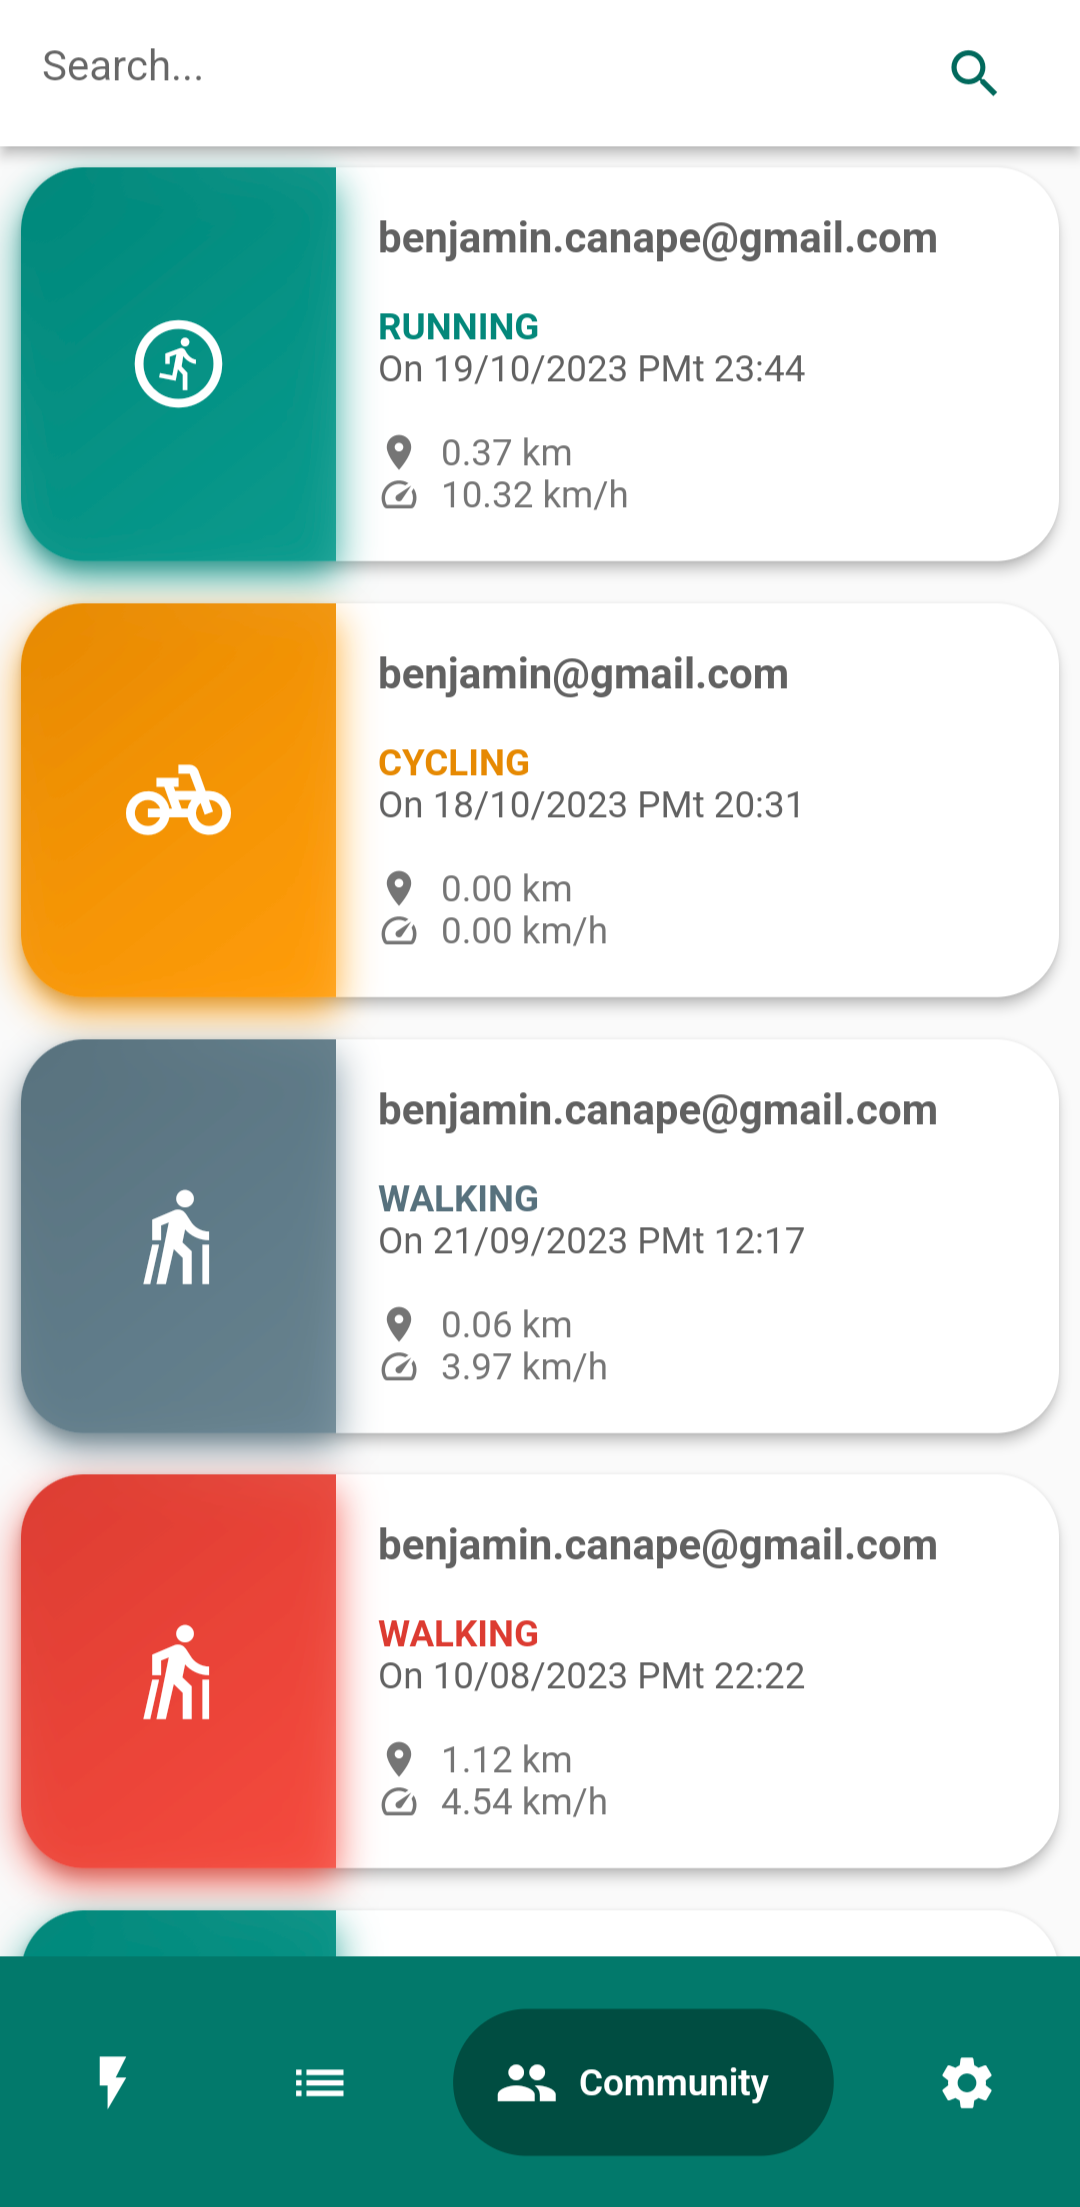
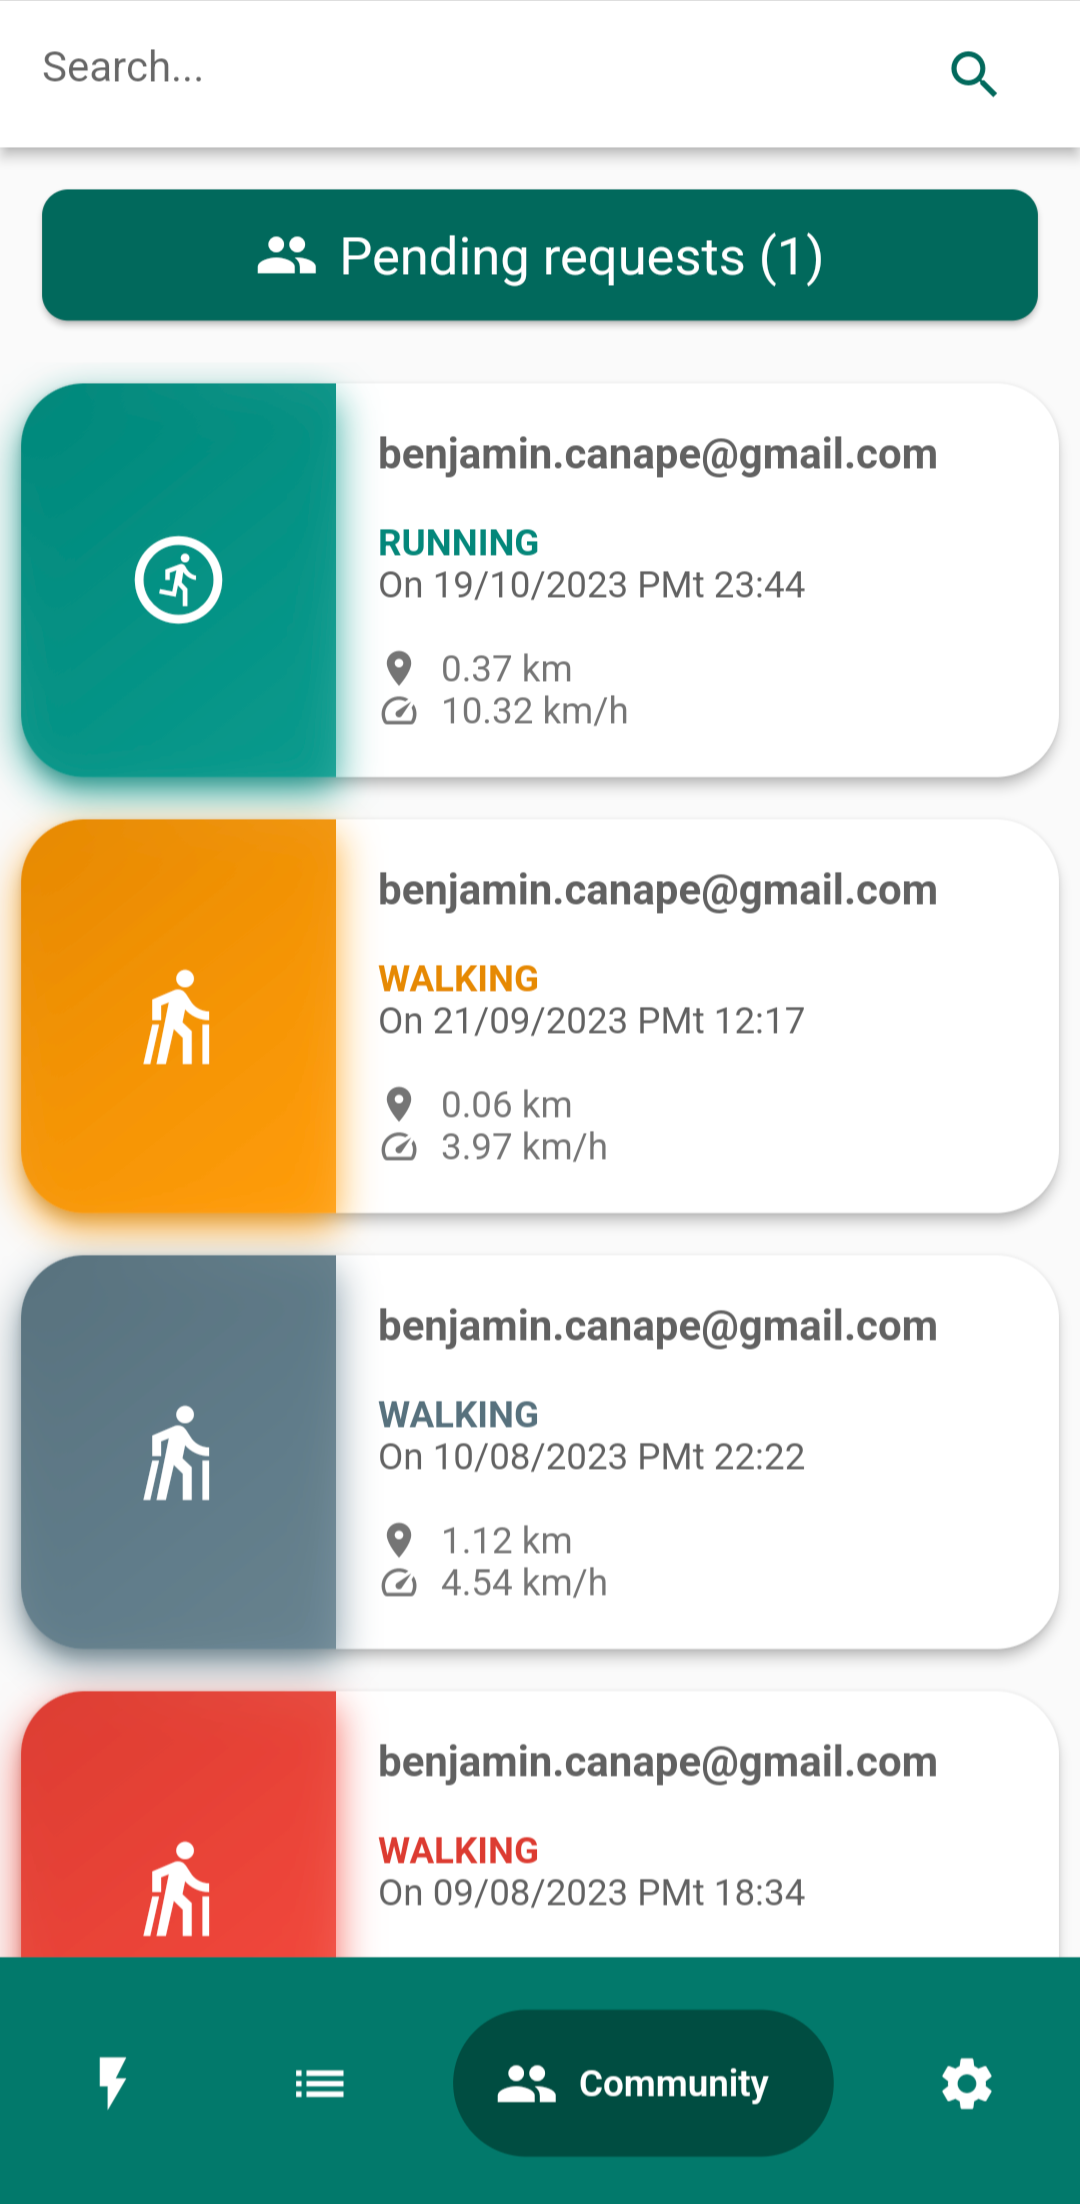
add screenshots

diff --git a/README.md b/README.md
@@ -37,7 +37,7 @@ flutter run
 
 ### Community
 
-<img src="screenshots/community/all_activities.png" alt="Description de l'image" width="300px"> <img src="screenshots/community/user_profile.png" alt="Description de l'image" width="300px">
+<img src="screenshots/community/all_activities.png" alt="Description de l'image" width="300px"> <img src="screenshots/community/pending_requests.png" alt="Description de l'image" width="300px"> <img src="screenshots/community/user_profile.png" alt="Description de l'image" width="300px">
 
 ### Settings
 
